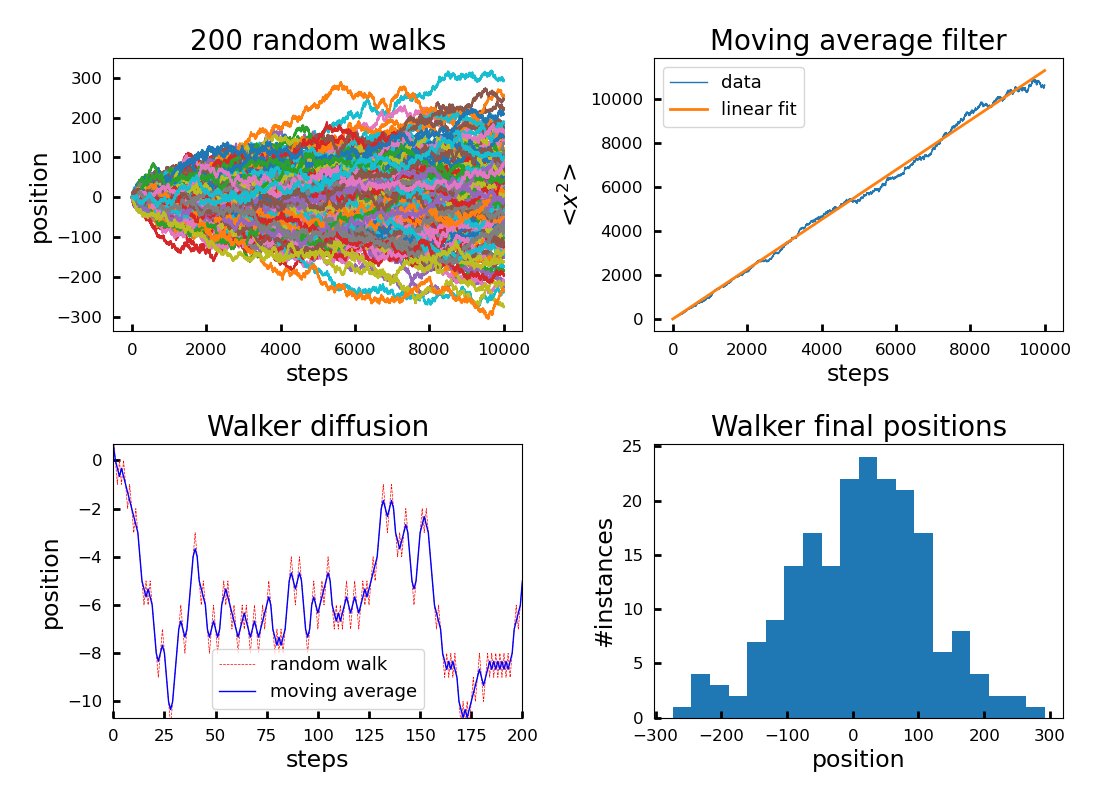
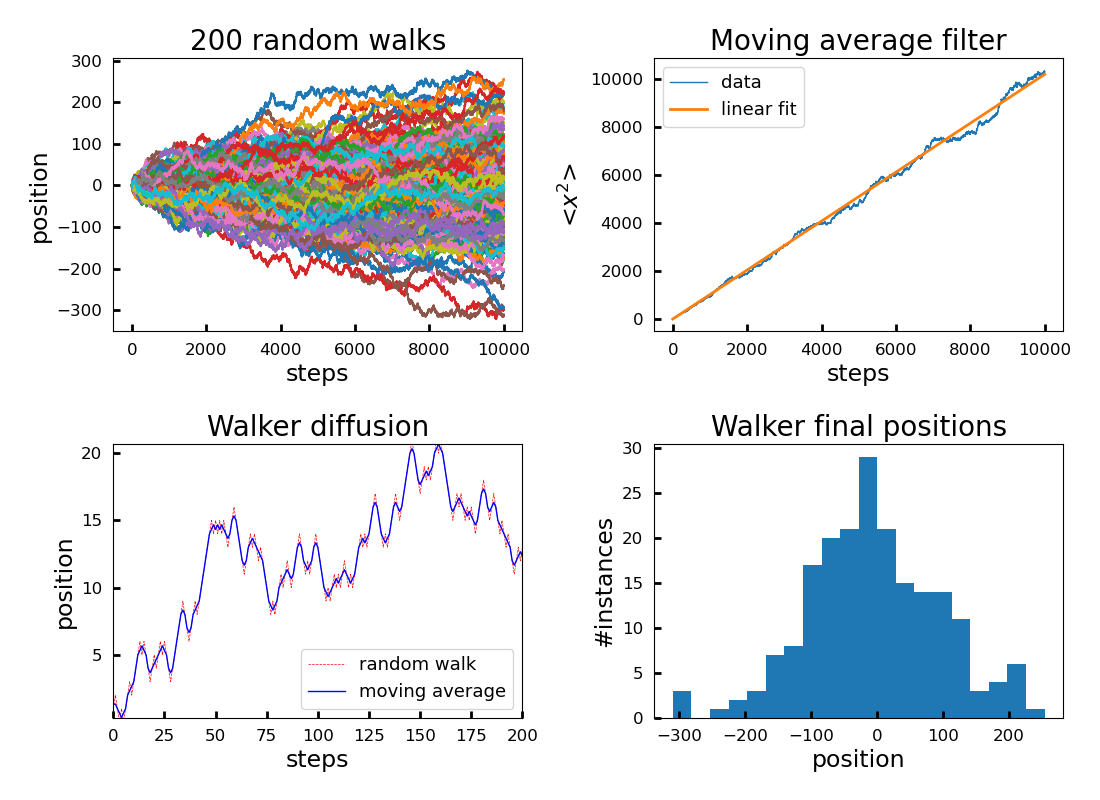
updated docstrings and fixed error in mean_sqrd function

diff --git a/analyze/regression.py b/analyze/regression.py
@@ -32,7 +32,11 @@ def fit_exp(xdata, ydata):
     
     Parameters
     ----------
-    
+    xdata: array_like
+           Input x-values
+    ydata: array_like
+           Input y-values
+           
     Returns
     -------
     popt: array
@@ -49,13 +53,13 @@ def compute_poly(p,xdata):
     Parameters
     ----------
     xdata: array_like
-       Input values
+           Input values
     p: polynomial coefficients
         
     Returns
     -------
     out: ndarray or scalar
-         Output array, element-wise y0 + k*exp(a*x). This is a scalar if x is a scalar
+         Output array, element-wise evaluation of the polynoial. This is a scalar if x is a scalar
     """
     return np.polyval(p,xdata)
 
@@ -65,7 +69,11 @@ def fit_poly(xdata,ydata,degree=3):
     
     Parameters
     ----------
-    
+    xdata: array_like
+           Input x-values
+    ydata: array_like
+           Input y-values
+           
     Returns
     -------
     popt: array

diff --git a/data/data_generation.py b/data/data_generation.py
@@ -3,12 +3,14 @@ import numpy as np
 def random_walk_1D(Nsteps = 10, Nwalks = 1):
     """Generate a Nwalks random walks of Nsteps time steps.
     
-    Parameters:
-        Nsteps (int): The number of time steps
-        Nwalks (int): The number of random walks
-    Returns:
-        walk (ndarray): Nwalks random walk of Nsteps steps, 
-        given by moving left (-1) or right (1)
+    Parameters
+    ----------
+    Nsteps (int): The number of time steps
+    Nwalks (int): The number of random walks
+    
+    Returns
+    ------- (ndarray)
+            Nwalks random walk of Nsteps steps, given by moving left (-1) or right (1)
     """
     
     return np.cumsum(2*np.round(np.random.rand(Nwalks, Nsteps))-1, axis = 1)

diff --git a/examples/analyze_randomwalk1D.py b/examples/analyze_randomwalk1D.py
@@ -28,7 +28,8 @@ mean_sqrd = calc_statistics.mean_sqrd(random_walk_1D_data)
 diff_coef = calc_statistics.diffusion_coefficient(random_walk_1D_data)
 
 
-###########Make a summary Figure
+#########################
+#    Make a summary Figure
 ##Fig 1 random walks, Fig 2 filtering data, Fig 3 diffusion, Fig 4 histogram
 fig, axs = plt.subplots(2,2,figsize = (11,8))
 

diff --git a/analyze/calc_statistics.py b/analyze/calc_statistics.py
@@ -53,7 +53,7 @@ def diffusion_coefficient(data):
     
     """
 
-    Nsteps = np.shape(data)[0]
+    Nsteps = np.shape(data)[1]
     time = np.arange(Nsteps)
     [a, b] = np.polyfit(time, mean_sqrd(data), deg = 1)
     
